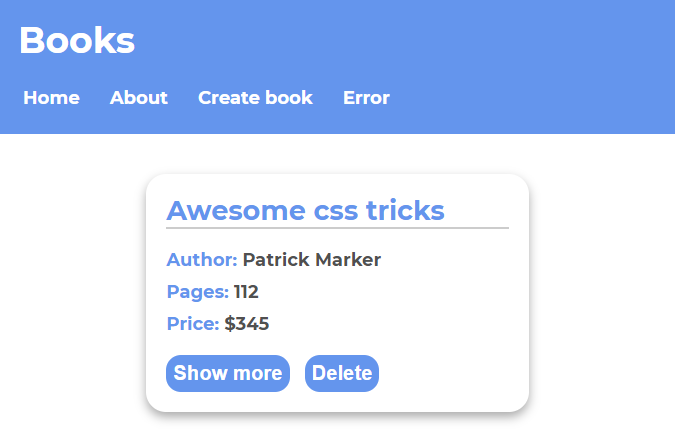
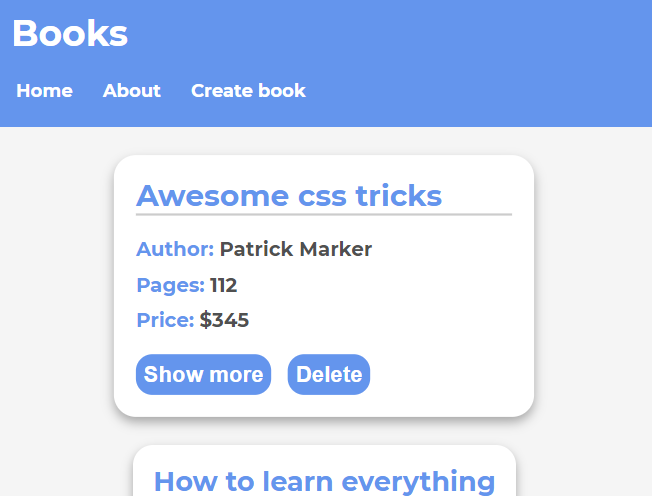
fixing about and  error pages, replace sreenshots

Changed region(s): [[0.0, 0.1501, 1.0, 1.0], [0.0, 0.03, 0.2147, 0.1201]]

diff --git a/public/style.css b/public/style.css
@@ -36,6 +36,9 @@
 .view-90{
   min-height: 90vh;
 }
+.view-70{
+  min-height: 70vh;
+}
 .center{
   display: grid;
   place-content: center;
@@ -46,6 +49,7 @@ html{
 body{
   font-family: 'Montserrat', sans-serif;
   font-size: 1.6rem;
+  background-color: whitesmoke;
 }
 .main-nav ul a{
   text-decoration: none;
@@ -170,4 +174,29 @@ body{
   padding: 20px;
   background-color: #505050;
   color: white;
+}
+.about{
+  padding: 10px;
+  max-width: 800px;
+  color: #555555;
+}
+.about h1{
+  color: cornflowerblue;
+  margin-bottom: 20px;
+  font-size: clamp(2.4rem, 10vw, 3.6rem);
+}
+.about p{
+  font-size: 1.8rem;
+}
+.error-404{
+  padding: 10px;
+  color: #555555;
+  font-weight: bold;
+}
+.error-404 h1{
+  margin-bottom: 30px;
+  font-size: 4rem;
+}
+.error-404 p{
+  font-size: 1.8rem;
 }
